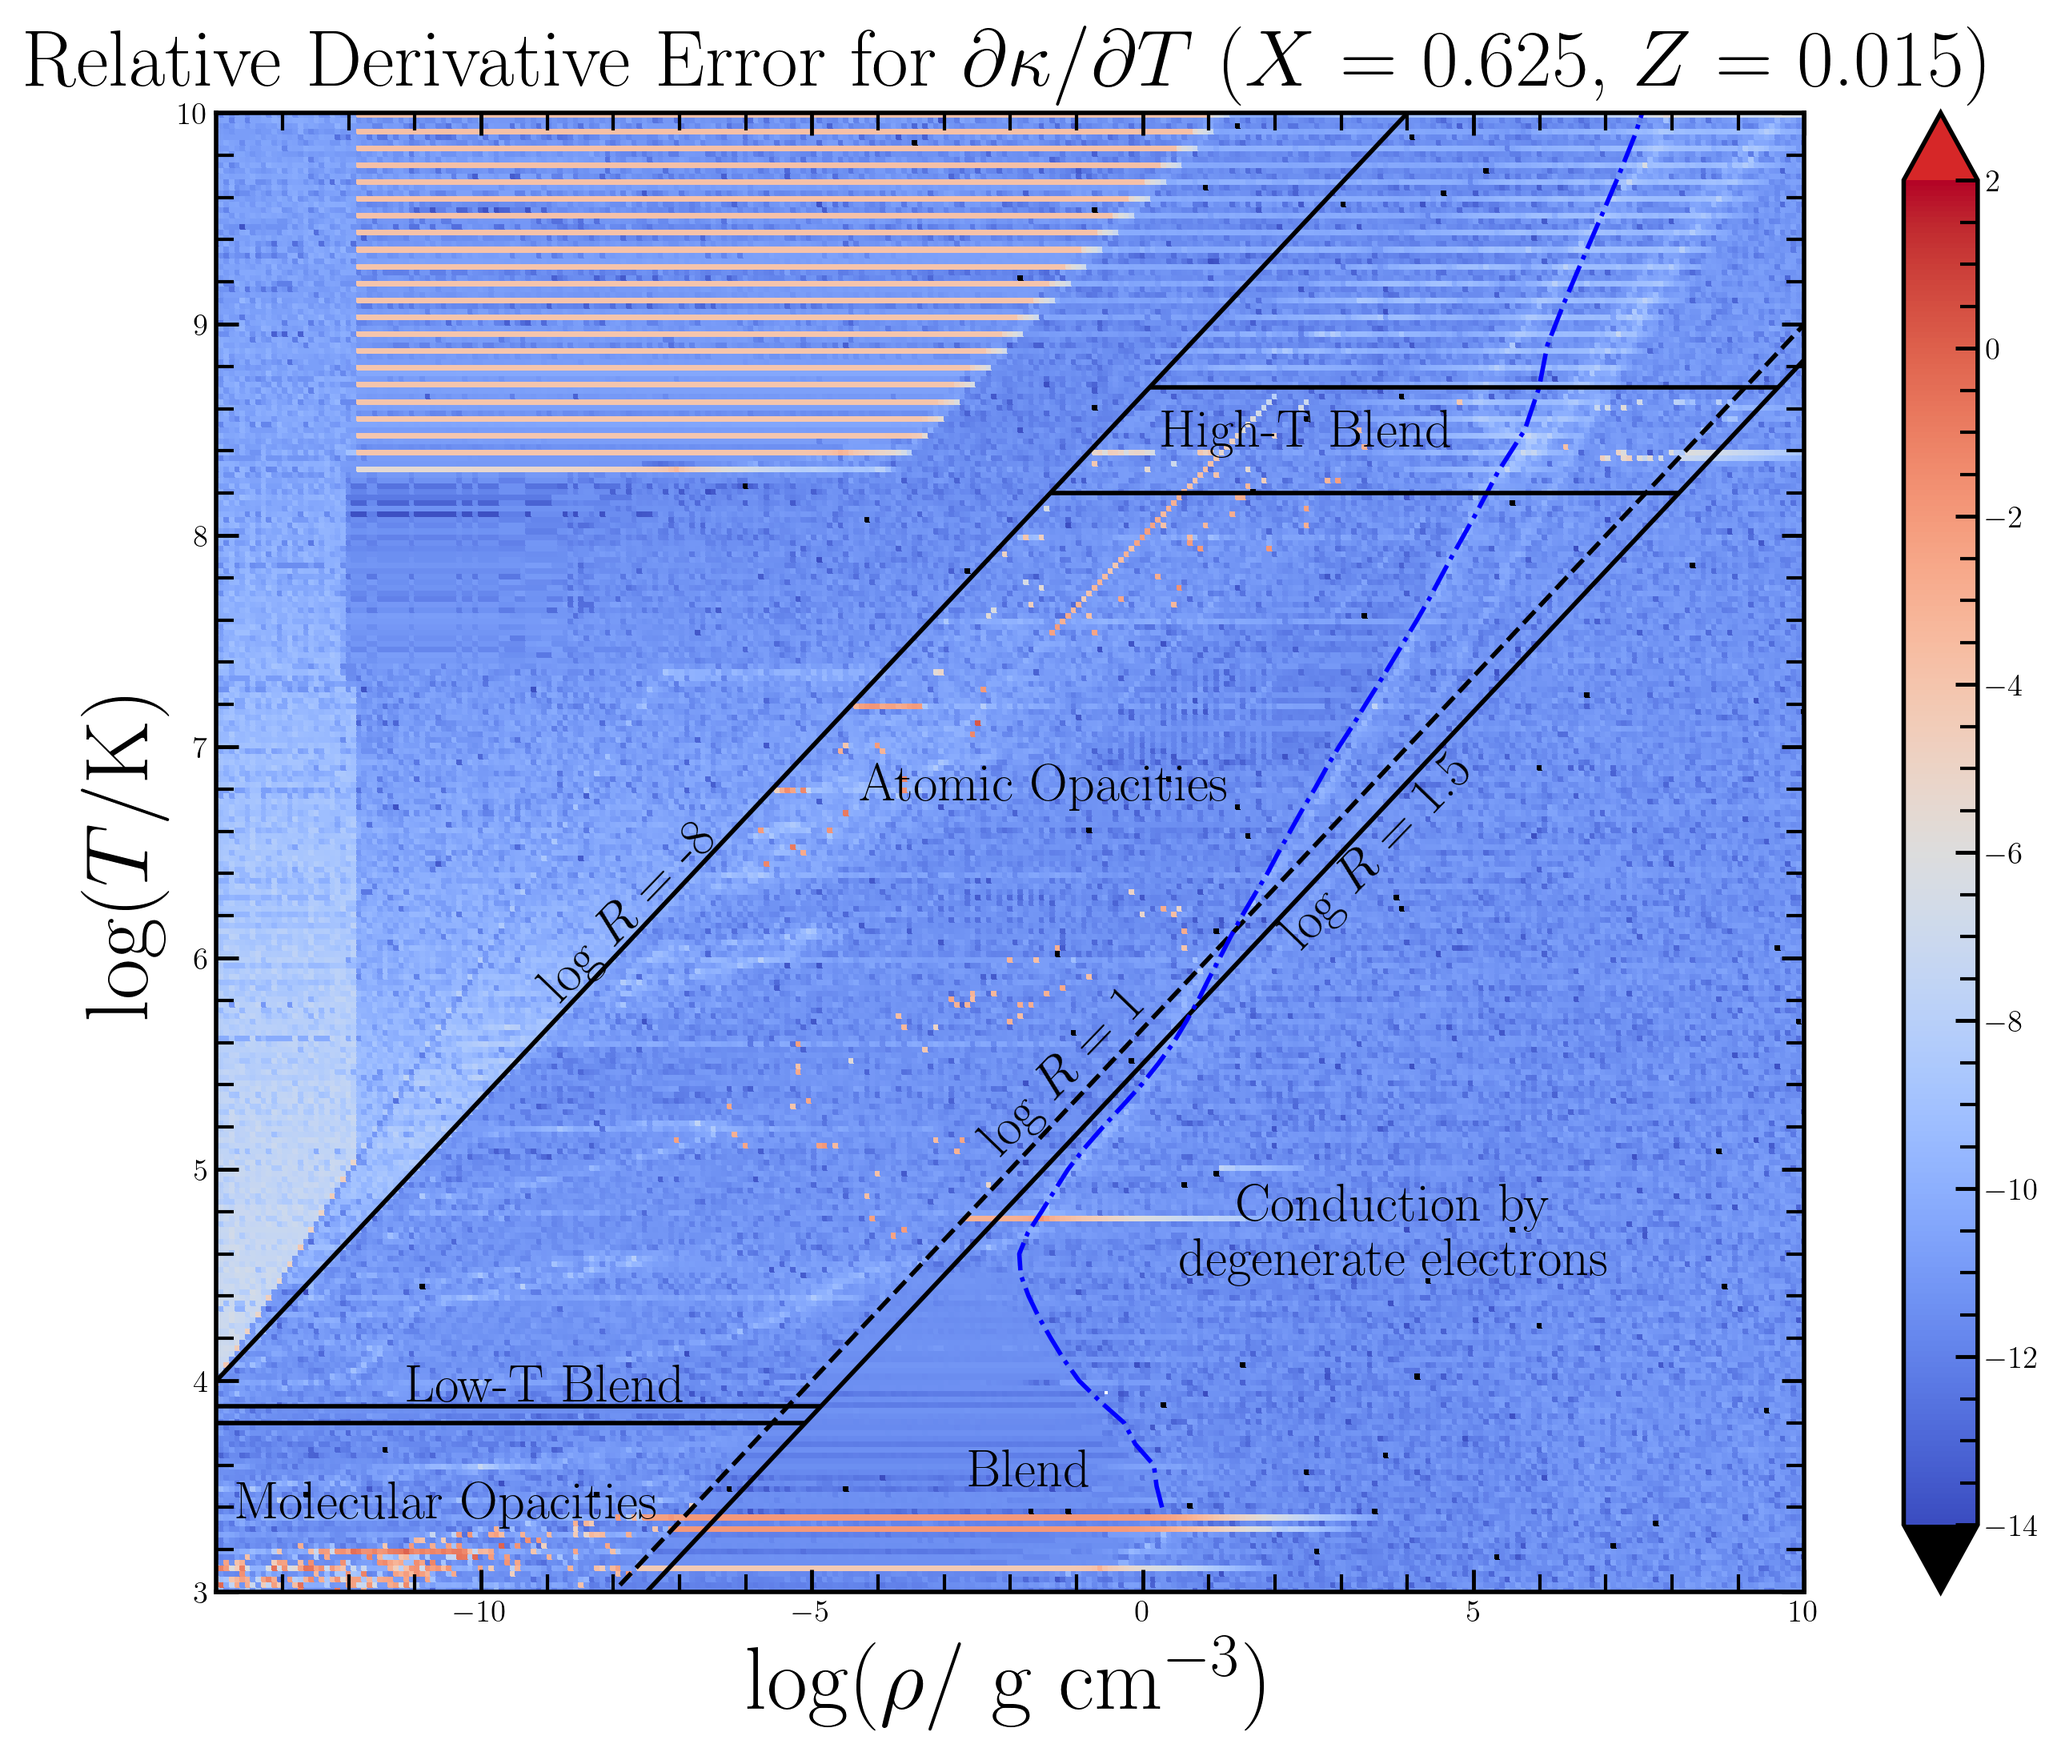
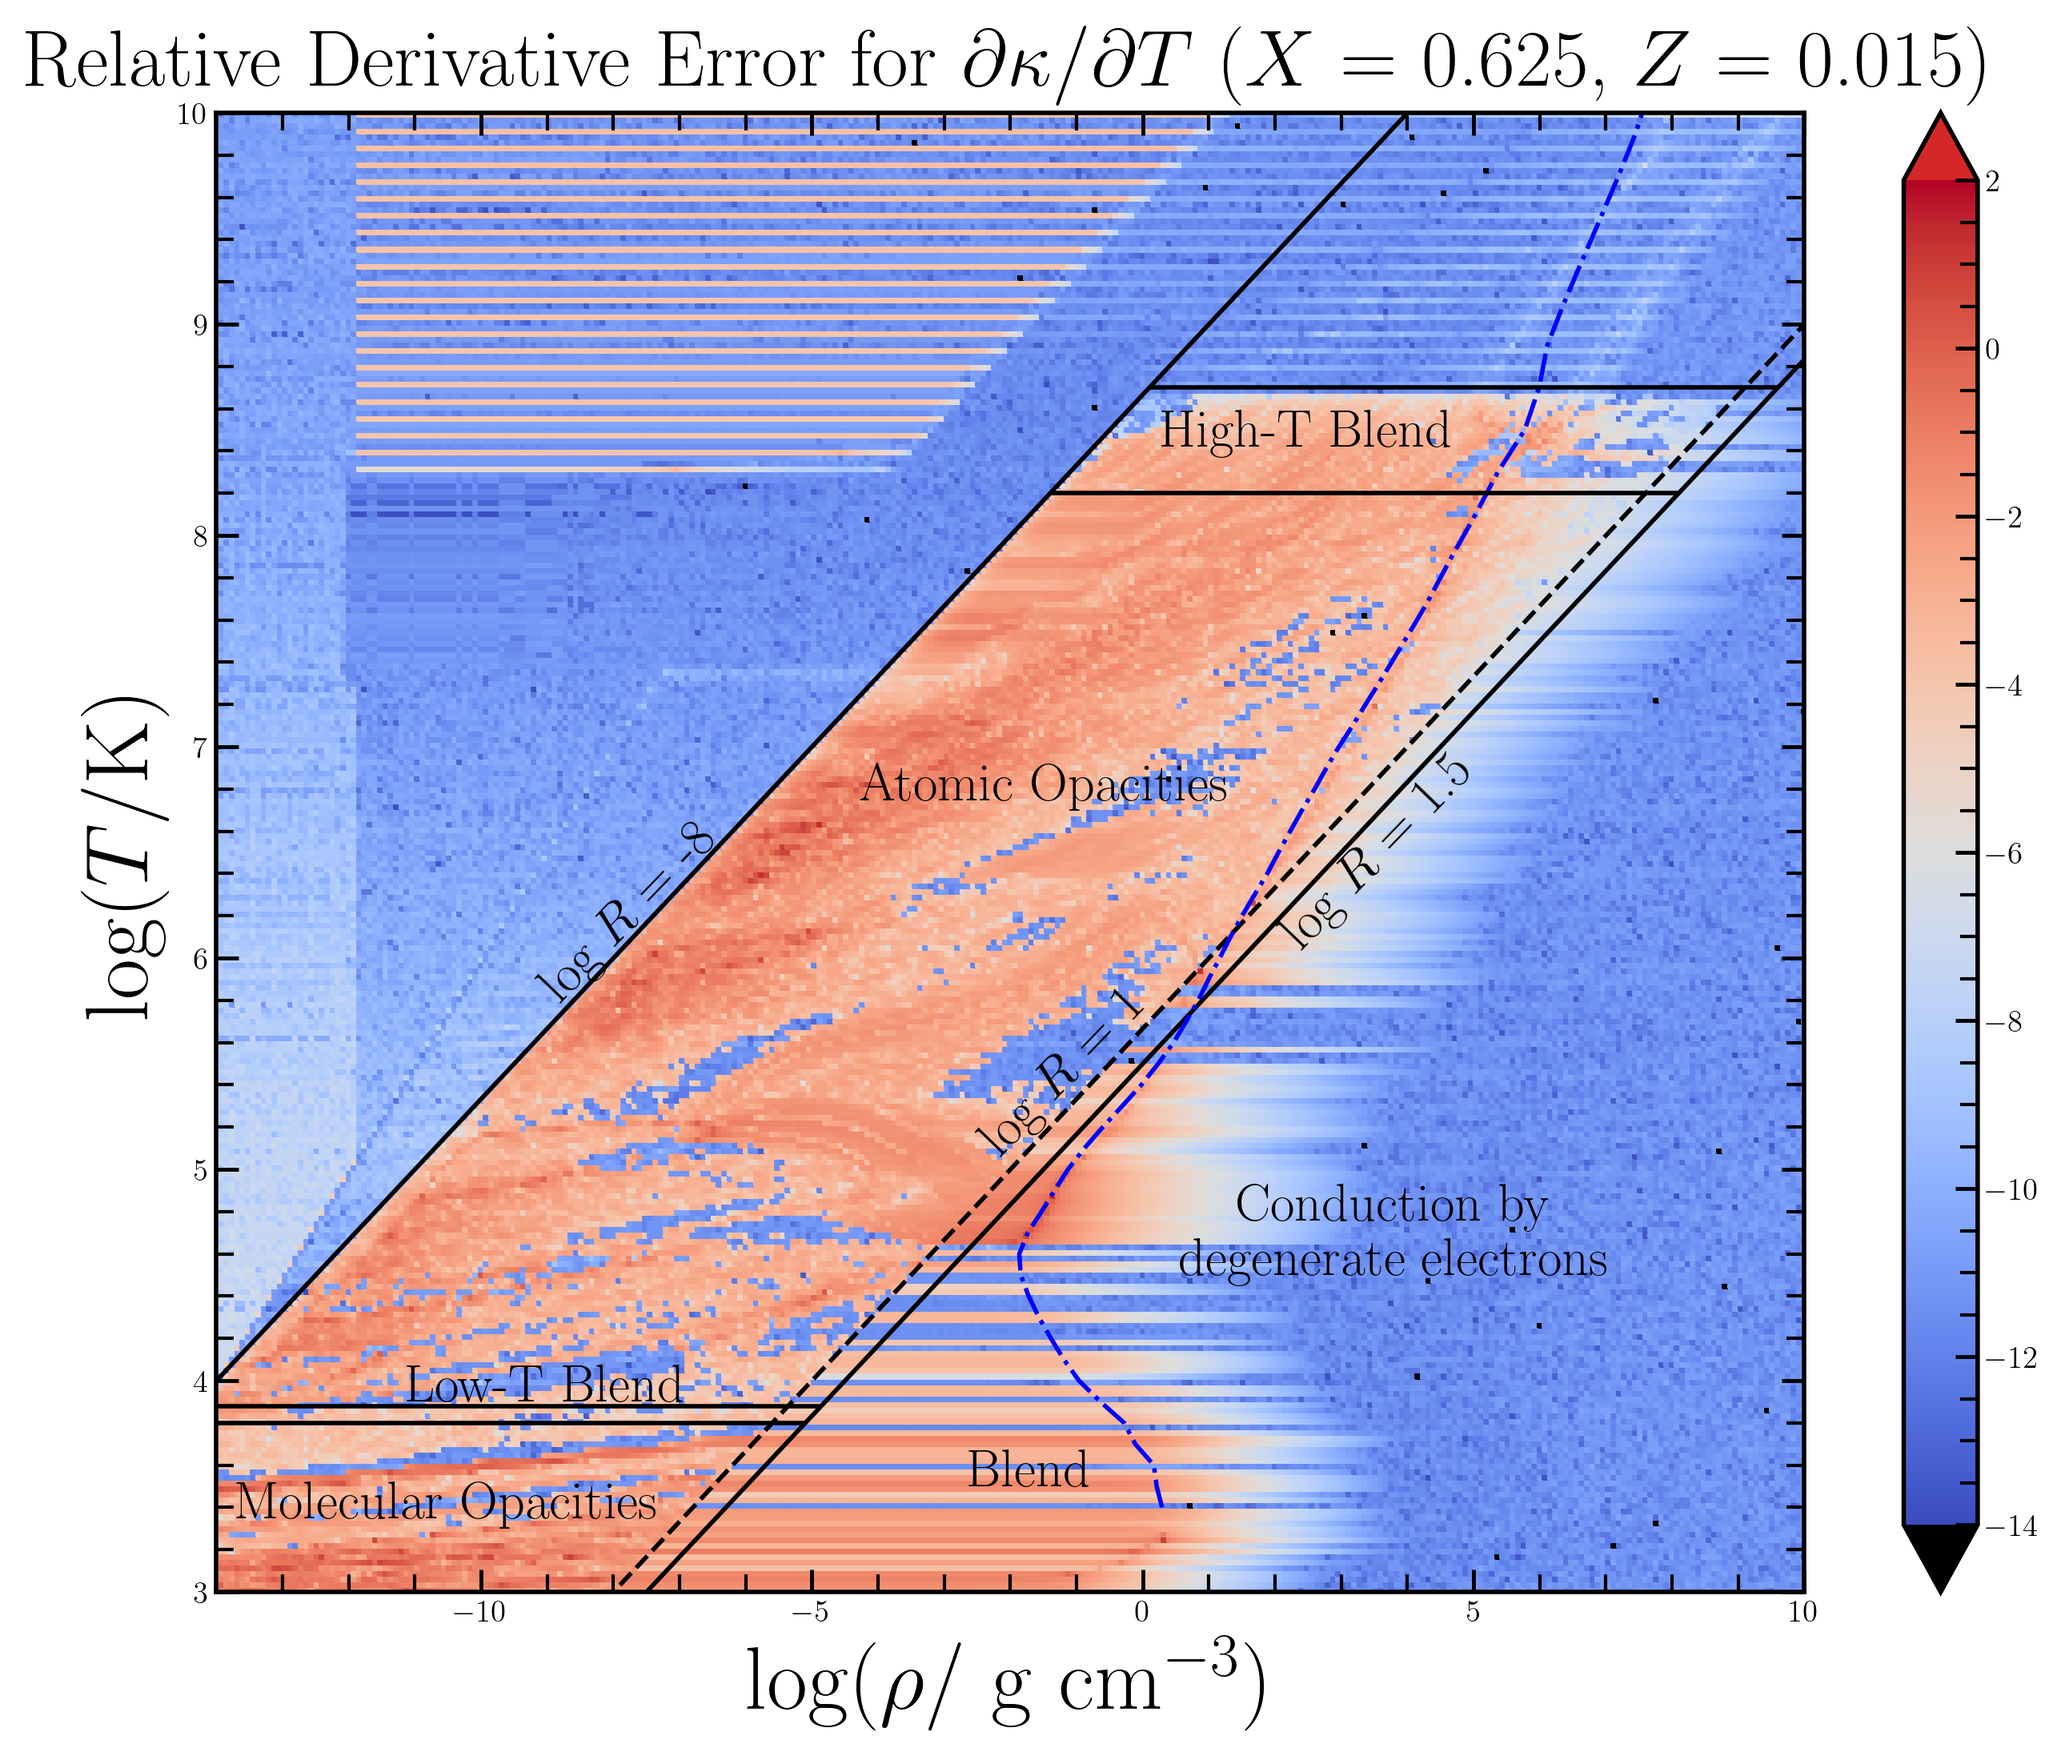
[ci optional] last full test and documentation update

Changed region(s): [[0.093, 0.217, 0.8682, 0.9298]]

diff --git a/docs/source/changelog.rst b/docs/source/changelog.rst
@@ -63,9 +63,9 @@ halt the progress of the solver and ultimately crash a calculation.
 In hopes of improving the robustness of MESA's cubic opacity interpolation routines, and their overall numerical stability, we have implemented
 automatic differentiation into the opacity interpolating functions. Now, when using cubic interpolation, the opacity derivatives of an arbitrary mixture
 in the :math:`X–Z` plane are computed by taking the derivative of the interpolating function as opposed to the interpolant of the derivatives. This improvement
-has resulted in an unprecidented increase in the numerical accuracy of opacity derivatives computed with cubic interpolation.
+has resulted in an unprecidented increase in the numerical accuracy of opacity derivatives computed with cubic interpolation. 
 
-.. figure:: ../change_log_plots/cubic_dfridr_dkapdT.png
+.. figure:: ../change_log_plots/cubic_dfridr_dkapdT_ad.png
    :alt: relative kap derivative error
 
   This figure shows the relative derivative error, :math:'\partial \kappa / \partial T' (:math:'X' = 0.625, :math:'Z' = 0.015), for an OPAL opacity table grid using Grevesse & Sauval (1998) abundances, generated from MESA’s kap module using cubic interpolation with automatic differentation.
@@ -73,12 +73,13 @@ has resulted in an unprecidented increase in the numerical accuracy of opacity d
   The approximate location of the Z-dependent transition to an electron conduction dominated opacity is marked with dot-dash blue curve. Regions for Atomic, molecular,
   and compton scattering opacity are labeled and presented with their associated blending regions.
 
-
-Although linear interpolation remains the MESA default, we implore users to try out cubic interpolation, which has been shown to consistently increase the overall 
+Some areas in the figure still seems to disagree with the numerical derivatives achieved via richardson extrapolation, however there is ongoing development to
+discearn whether these remaining differences are a product of the interpolation method, or rather the implementation of richardson extrapolation in MESA. The entire
+MESA test_suite has been tested with these improvements to the opacity derivatives without error, so we are relatively confident in their interpolation at the moment. 
+For this MESA release, linear interpolation will remain the default interpolation opacity method. Although, we implore users to experiment with cubic interpolation, as it has been shown to consistently increase the overall 
 opacity of a model, and can directly effect the structure of solar models, see Appendix B & C in Farag et al. 2024.
 
-While linear interpolation will remain the default in this MESA release, we anticipate making cubic interpolation the default in a future MESA release version. We 
-encourage users to experiment with these different opacity interpolation routines and be mindful of the effect they can have on their stellar models.
+We anticipate making cubic interpolation the default in a future MESA release version. We encourage users to experiment with these different opacity interpolation routines and be mindful of the effect they can have on their stellar models.
 
 
 
